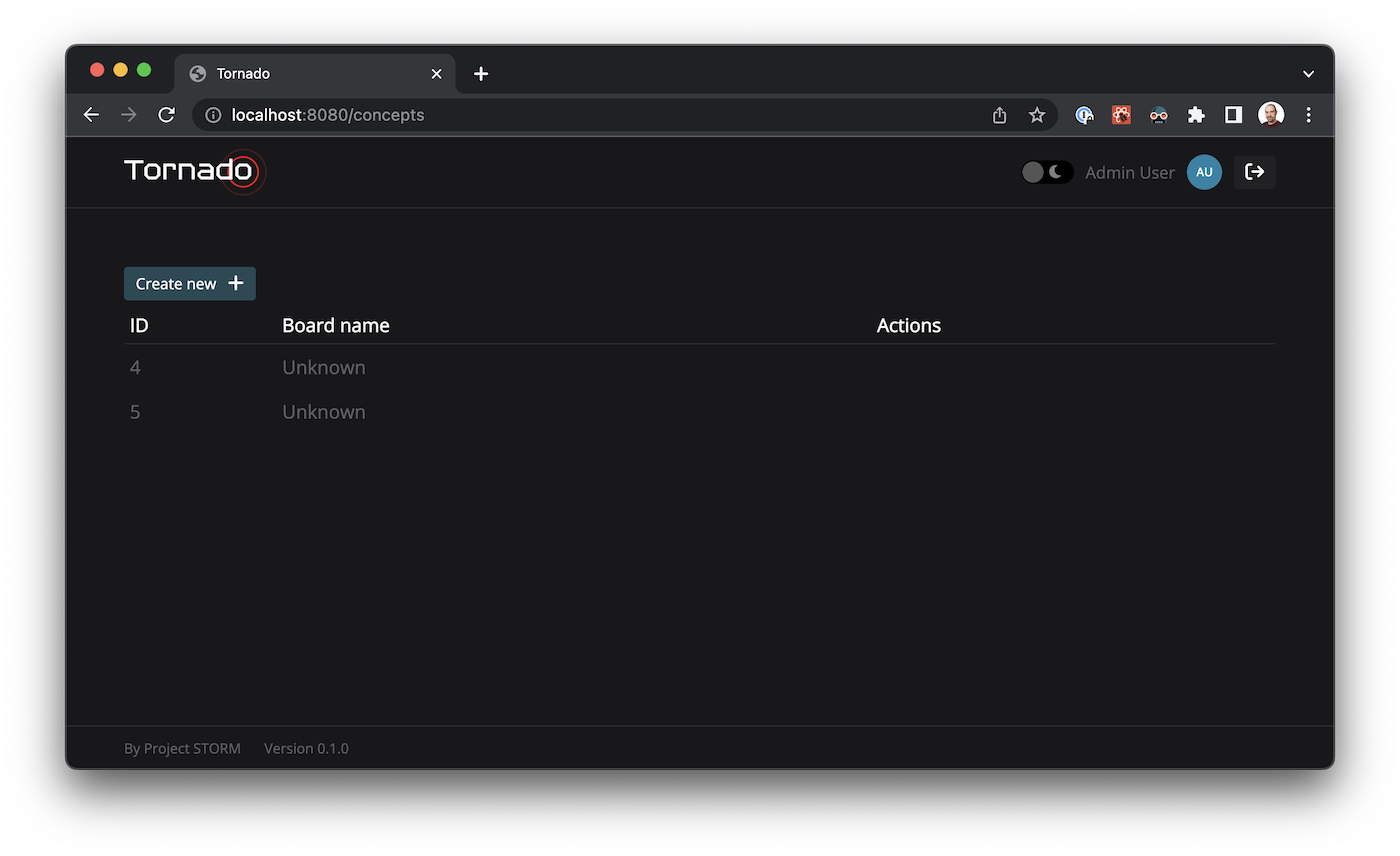
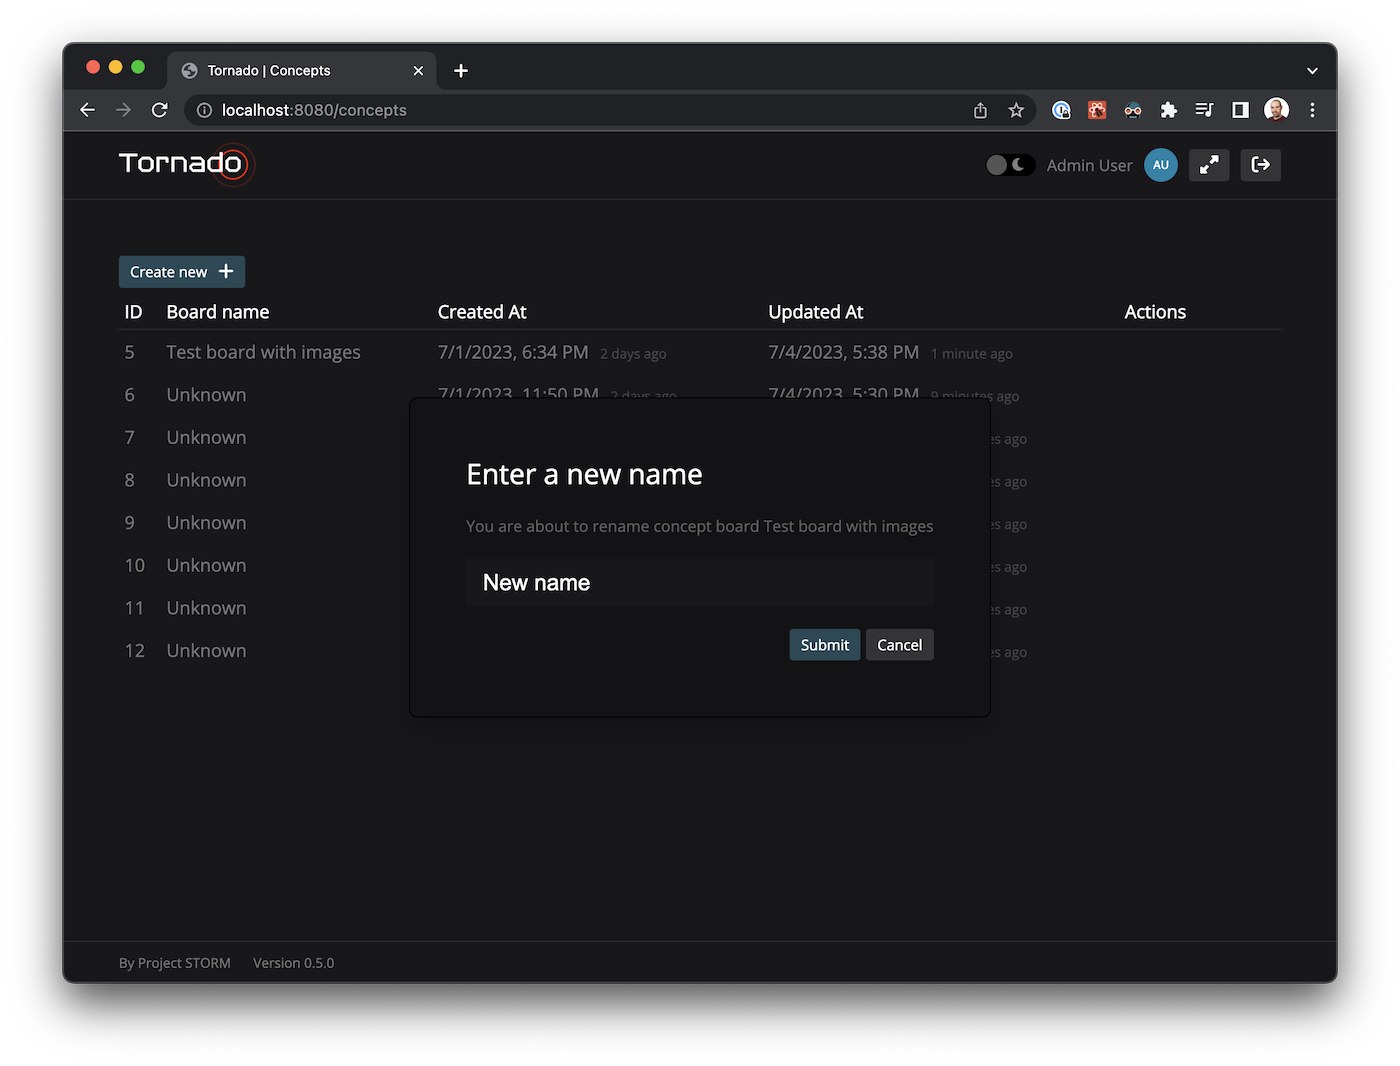
updated at

diff --git a/tornado-frontend/src/stores/ConceptsStore.ts b/tornado-frontend/src/stores/ConceptsStore.ts
@@ -1,5 +1,5 @@
 import { TornadoClient } from '../client/TornadoClient';
-import { BaseListener, BaseObserver, ConceptBoard } from '@projectstorm/tornado-common';
+import { BaseListener, BaseObserver, ConceptBoardEncoded } from '@projectstorm/tornado-common';
 import { Collection } from '../data/Collection';
 import { computed, makeObservable, observable, toJS } from 'mobx';
 import { v4 } from 'uuid';
@@ -14,13 +14,13 @@ export interface ConceptBoardModelListener extends BaseListener {
 }
 
 export interface ConceptBoardModelOptions {
-  board: ConceptBoard;
+  board: ConceptBoardEncoded;
   client: TornadoClient;
 }
 
 export class ConceptBoardModel extends BaseObserver<ConceptBoardModelListener> {
   @observable
-  board: ConceptBoard;
+  board: ConceptBoardEncoded;
 
   @observable
   data: {
@@ -91,7 +91,7 @@ export class ConceptBoardModel extends BaseObserver<ConceptBoardModelListener> {
 }
 
 export class ConceptsStore {
-  _concepts: Collection<ConceptBoardModel, ConceptBoard>;
+  _concepts: Collection<ConceptBoardModel, ConceptBoardEncoded>;
 
   constructor(protected options: ConceptsStoreOptions) {
     this._concepts = new Collection({

diff --git a/tornado-frontend/src/widgets/table/TableWidget.tsx b/tornado-frontend/src/widgets/table/TableWidget.tsx
@@ -18,6 +18,7 @@ export interface TableCellRenderEvent<T extends TableRow> {
 export interface TableColumn<T extends TableRow> {
   key: string;
   label: string;
+  shrink?: boolean;
   render?: (event: TableCellRenderEvent<T>) => React.JSX.Element | string;
 }
 
@@ -33,7 +34,11 @@ export const TableWidget = <T extends TableRow>(props: TableWidgetProps<T>) => {
       <thead>
         <tr>
           {props.columns.map((c) => {
-            return <S.TH key={c.key}>{c.label}</S.TH>;
+            return (
+              <S.TH shrink={c.shrink} key={c.key}>
+                {c.label}
+              </S.TH>
+            );
           })}
         </tr>
       </thead>
@@ -53,13 +58,12 @@ namespace S {
     width: 100%;
   `;
 
-  export const TR = styled.tr``;
-
-  export const TH = styled.th`
+  export const TH = styled.th<{ shrink: boolean }>`
     color: ${(p) => p.theme.text.heading};
     padding: 5px;
     border-bottom: solid 1px ${(p) => p.theme.layout.separatorLine};
     text-align: left;
+    ${(p) => (p.shrink ? `width: 0%` : '')};
     ${FONT}
   `;
 }

diff --git a/tornado-frontend/src/routes/manage/ConceptBoardsPage.tsx b/tornado-frontend/src/routes/manage/ConceptBoardsPage.tsx
@@ -10,6 +10,8 @@ import { Routing } from '../routes';
 import { observer } from 'mobx-react';
 import { TableRowActionsWidget } from '../../widgets/table/TableRowActionsWidget';
 import { ConceptBoardModel } from '../../stores/ConceptsStore';
+import { DateTime } from 'luxon';
+import { RelativeDateCellWidget } from '../../widgets/table/RelativeDateCellWidget';
 
 export interface ConceptBoardRow extends TableRow {
   board: ConceptBoardModel;
@@ -47,8 +49,16 @@ export const ConceptBoardsPage: React.FC = observer((props) => {
             label: 'Board name'
           },
           {
+            key: 'updatedAt',
+            label: 'Updated At',
+            render: ({ row }) => {
+              return <RelativeDateCellWidget date={row.board.board.updatedAt} />;
+            }
+          },
+          {
             key: 'actions',
             label: 'Actions',
+            shrink: true,
             render: ({ rowHover, row }) => {
               return (
                 <TableRowActionsWidget show={rowHover}>

diff --git a/tornado-server/src/routes/concepts.ts b/tornado-server/src/routes/concepts.ts
@@ -22,7 +22,7 @@ export const setupConceptRoutes = (router: Router, system: System) => {
     cb: async ({ user, data }) => {
       const concept = await system.concepts.createConcept(user, data.name);
       return {
-        concept
+        concept: system.concepts.encodeConcept(concept)
       };
     }
   });
@@ -33,11 +33,6 @@ export const setupConceptRoutes = (router: Router, system: System) => {
     route: Routes.CONCEPTS,
     cb: async ({ user, data }) => {
       const res = await system.db.conceptBoard.findMany({
-        select: {
-          id: true,
-          name: true,
-          createdAt: true
-        },
         where: {
           user: {
             id: user.id
@@ -45,7 +40,9 @@ export const setupConceptRoutes = (router: Router, system: System) => {
         }
       });
       return {
-        concepts: res
+        concepts: res.map((concept) => {
+          return system.concepts.encodeConcept(concept);
+        })
       };
     }
   });

diff --git a/tornado-common/src/api/concepts.ts b/tornado-common/src/api/concepts.ts
@@ -1,6 +1,8 @@
-export interface ConceptBoard {
+export interface ConceptBoardEncoded {
   id: number;
   name: string;
+  updatedAt: string;
+  createdAt: string;
 }
 
 export interface FileData {
@@ -14,15 +16,15 @@ export interface FileData {
 export interface ConceptsRequest {}
 
 export interface ConceptsResponse {
-  concepts: ConceptBoard[];
+  concepts: ConceptBoardEncoded[];
 }
 
 // !----- create ----
 
-export type CreateConceptRequest = Pick<ConceptBoard, 'name'>;
+export type CreateConceptRequest = Pick<ConceptBoardEncoded, 'name'>;
 
 export interface CreateConceptResponse {
-  concept: ConceptBoard;
+  concept: ConceptBoardEncoded;
 }
 
 //! ----- DATA ------
@@ -43,7 +45,7 @@ export interface UpdateConceptDataRequest {
 // !----- UPDATE ----
 
 export interface UpdateConceptRequest {
-  board: ConceptBoard;
+  board: Pick<ConceptBoardEncoded, 'name' | 'id'>;
 }
 
 // !----- delete ----

diff --git a/tornado-frontend/src/widgets/table/RelativeDateCellWidget.tsx b/tornado-frontend/src/widgets/table/RelativeDateCellWidget.tsx
@@ -1,0 +1,36 @@
+import * as React from 'react';
+import styled from '@emotion/styled';
+import { DateTime } from 'luxon';
+import { useEffect } from 'react';
+import { useForceUpdate } from '../../hooks/useForceUpdate';
+
+export interface RelativeDateCellWidgetProps {
+  date: string;
+}
+
+export const RelativeDateCellWidget: React.FC<RelativeDateCellWidgetProps> = (props) => {
+  const l = DateTime.fromISO(props.date);
+  const forceUpdate = useForceUpdate();
+  useEffect(() => {
+    const res = setInterval(() => {
+      forceUpdate();
+    }, 5000);
+    return () => {
+      clearInterval(res);
+    };
+  }, []);
+
+  return (
+    <>
+      {l.toLocaleString(DateTime.DATETIME_SHORT)}
+      <S.Rel>{l.toRelative()}</S.Rel>
+    </>
+  );
+};
+namespace S {
+  export const Rel = styled.span`
+    opacity: 0.5;
+    padding-left: 10px;
+    font-size: 12px;
+  `;
+}

diff --git a/tornado-server/src/api/ConceptApi.ts b/tornado-server/src/api/ConceptApi.ts
@@ -1,6 +1,7 @@
 import { AbstractApi, ApiError } from './AbstractApi';
 import { System } from '../System';
-import { User } from '@prisma/client';
+import { ConceptBoard, User } from '@prisma/client';
+import { ConceptBoardEncoded } from '@projectstorm/tornado-common';
 
 export class ConceptApi extends AbstractApi {
   constructor(system: System) {
@@ -21,6 +22,15 @@ export class ConceptApi extends AbstractApi {
         }
       }
     });
+  }
+
+  encodeConcept(concept: ConceptBoard): ConceptBoardEncoded {
+    return {
+      id: concept.id,
+      name: concept.name,
+      createdAt: concept.createdAt?.toISOString(),
+      updatedAt: concept.updatedAt?.toISOString()
+    };
   }
 
   async deleteConcept(user: User, id: number) {

diff --git a/tornado-frontend/src/widgets/table/TableRowActionsWidget.tsx b/tornado-frontend/src/widgets/table/TableRowActionsWidget.tsx
@@ -11,5 +11,8 @@ export const TableRowActionsWidget: React.FC<React.PropsWithChildren<TableRowAct
 namespace S {
   export const Container = styled.div<{ show: boolean }>`
     visibility: ${(p) => (p.show ? 'visible' : 'hidden')};
+    display: flex;
+    align-items: center;
+    flex-wrap: nowrap;
   `;
 }

diff --git a/README.md b/README.md
@@ -29,9 +29,10 @@ You can simply paste images you have copied in your clipboard, and then arrange 
 * Double click to focus images in the center of the screen
 * Fullscreen toggle
 
-![](./images/screenshot.png)
+![](./images/screenshot1.png)
 ![](./images/screenshot2.png)
 ![](./images/screenshot3.png)
+![](./images/screenshot4.png)
 
 
 ## Requirements
